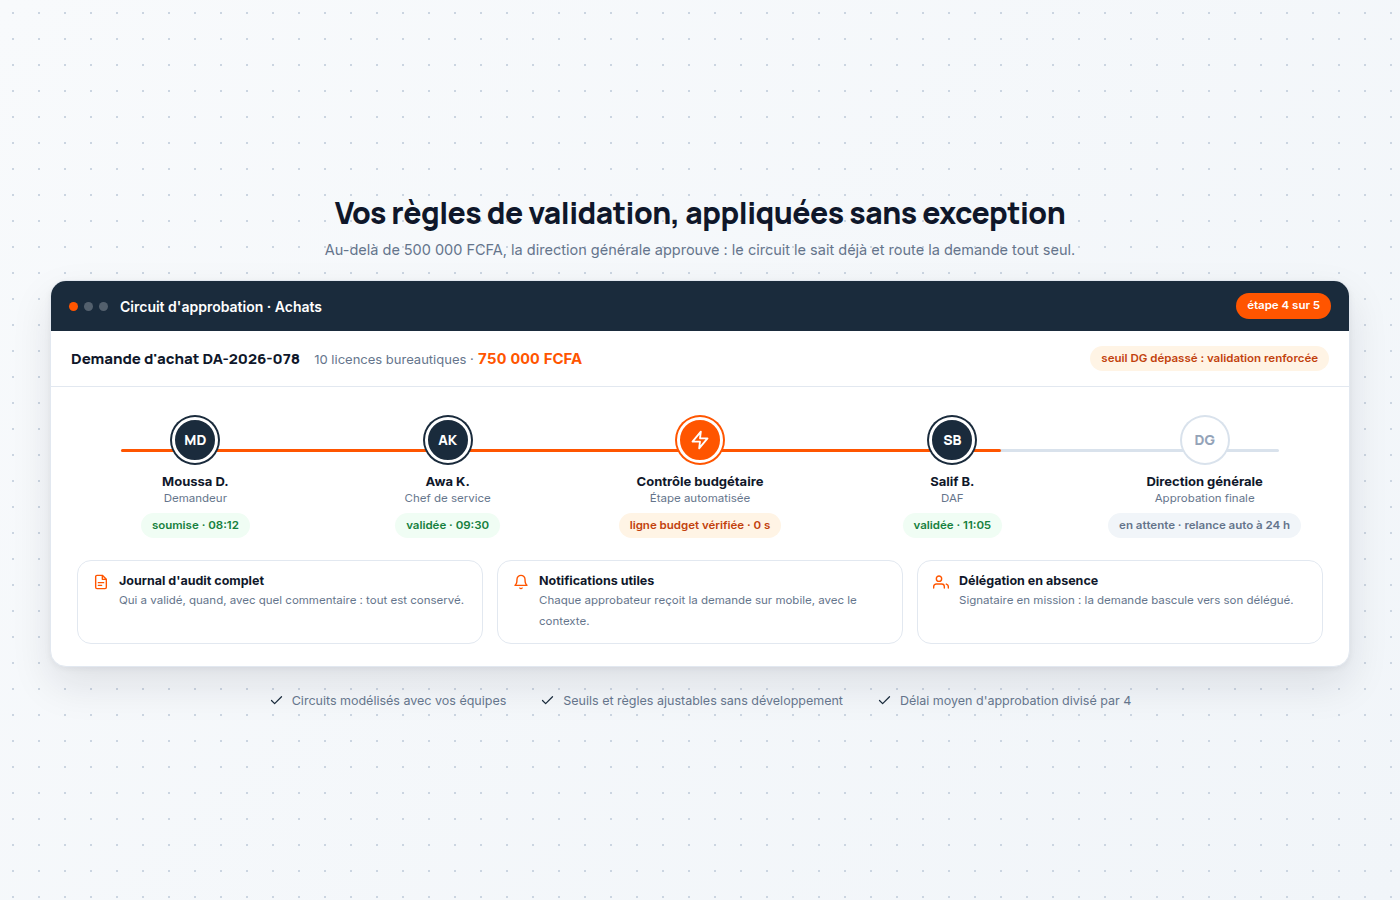
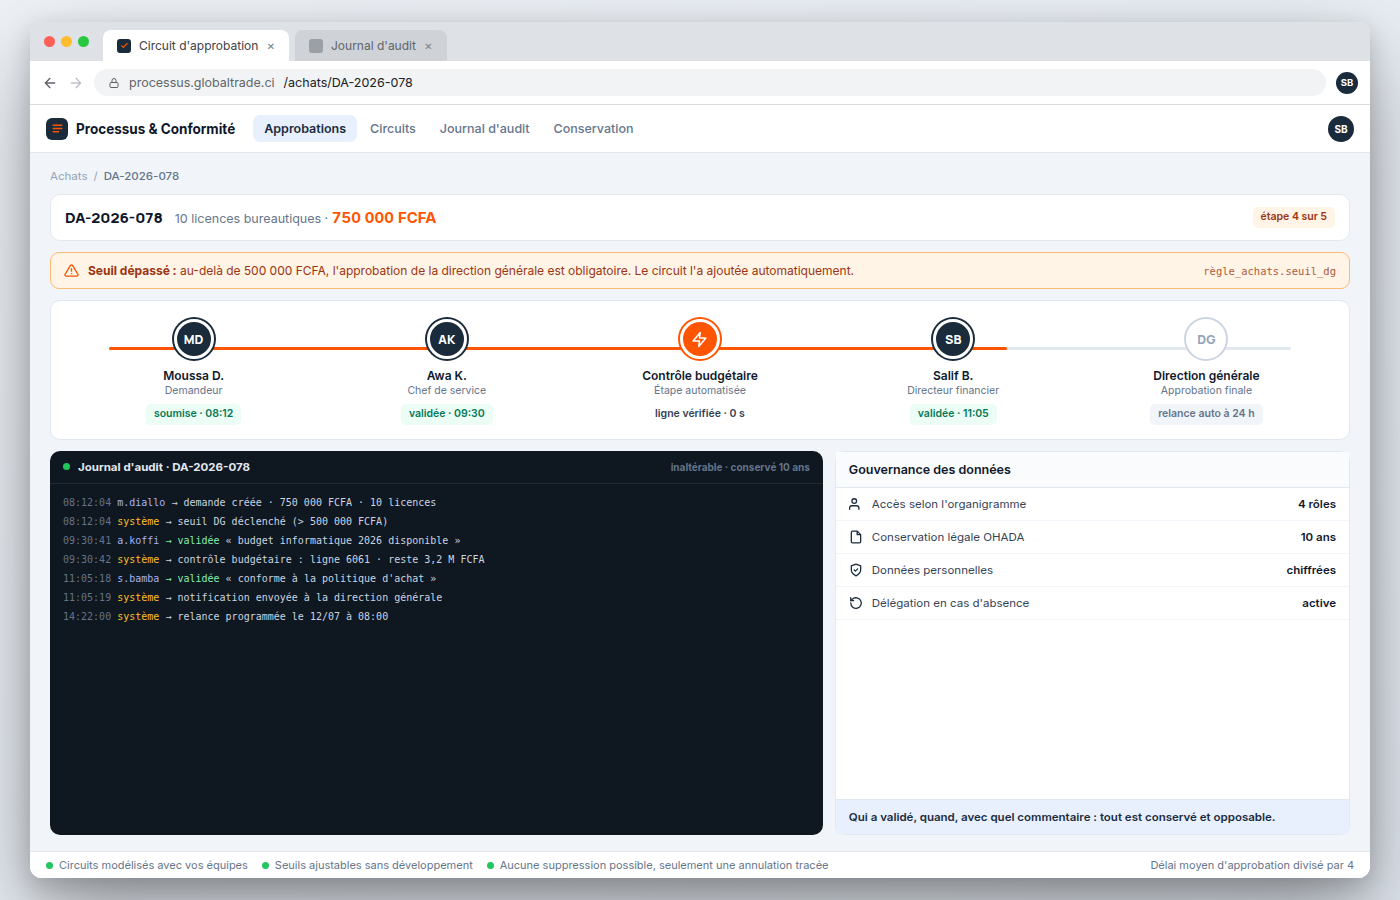
feat(transfo): captures logiciel réalistes à la place des schémas
Les 3 visuels de la page Transformation Digitale deviennent de vraies
captures d'écran :
- constat : scan d'un bon de commande manuscrit tamponné « en attente »,
  case de signature vide (signataire en mission) et fil d'e-mails
  « Re: Re: Re: validation ? », face au processus digitalisé horodaté
- dématérialisation : recherche GED plein texte avec extraits OCR
  surlignés, aperçu du document et conservation légale OHADA
- gouvernance : circuit d'approbation d'une demande à 750 000 FCFA avec
  règle de seuil DG appliquée automatiquement et journal d'audit
  inaltérable

Textes alt mis à jour en conséquence. Les 6 pages expertises utilisent
désormais des captures produit réalistes.

diff --git a/src/components/transformation-digitale/TdIntro.tsx b/src/components/transformation-digitale/TdIntro.tsx
@@ -56,7 +56,7 @@ export default function TdIntro() {
           <FadeUp delay={0.2}>
             <Image
               src="/transformation-digitale-images/td-contexte.png"
-              alt="Avant-après : circuit papier d'une commande client en 11 jours avec ressaisies et pertes, contre le même processus digitalisé, tracé et bouclé en une journée"
+              alt="Avant-après : le scan d’un bon de commande manuscrit tamponné « en attente », avec une case de signature vide parce que le signataire est en mission, et le fil d’e-mails de relance « Re: Re: Re: validation ? », face au même processus digitalisé où chaque étape est horodatée de 09:02 à 09:15"
               width={1400}
               height={1000}
               loading="lazy"

diff --git a/src/components/transformation-digitale/TdGouvernance.tsx b/src/components/transformation-digitale/TdGouvernance.tsx
@@ -46,7 +46,7 @@ export default function TdGouvernance() {
           <FadeUp delay={0.16}>
             <Image
               src="/transformation-digitale-images/td-bpm.png"
-              alt="Workflow BPM : circuit d'approbation modélisé avec étapes, points de décision et étape automatisée mise en évidence"
+              alt="Circuit d’approbation d’une demande d’achat de 750 000 FCFA : la règle de seuil ajoute automatiquement la direction générale au-delà de 500 000 FCFA, les validations successives sont horodatées, et le journal d’audit inaltérable conserve qui a validé quoi, quand et avec quel commentaire"
               width={1400}
               height={900}
               loading="lazy"

diff --git a/src/components/transformation-digitale/TdServices.tsx b/src/components/transformation-digitale/TdServices.tsx
@@ -21,7 +21,7 @@ export default function TdServices() {
           <FadeUp>
             <Image
               src="/transformation-digitale-images/td-dematerialisation.png"
-              alt="Transition de l'archive papier vers la gestion électronique des documents : classement, indexation et recherche"
+              alt="Recherche dans la gestion documentaire : la requête « facture globaltrade juin 2026 » retourne trois résultats en 0,4 seconde, avec les extraits du texte reconnu par OCR surlignés dans le contenu des documents, un aperçu de la facture et sa durée de conservation légale OHADA"
               width={1400}
               height={900}
               loading="lazy"
